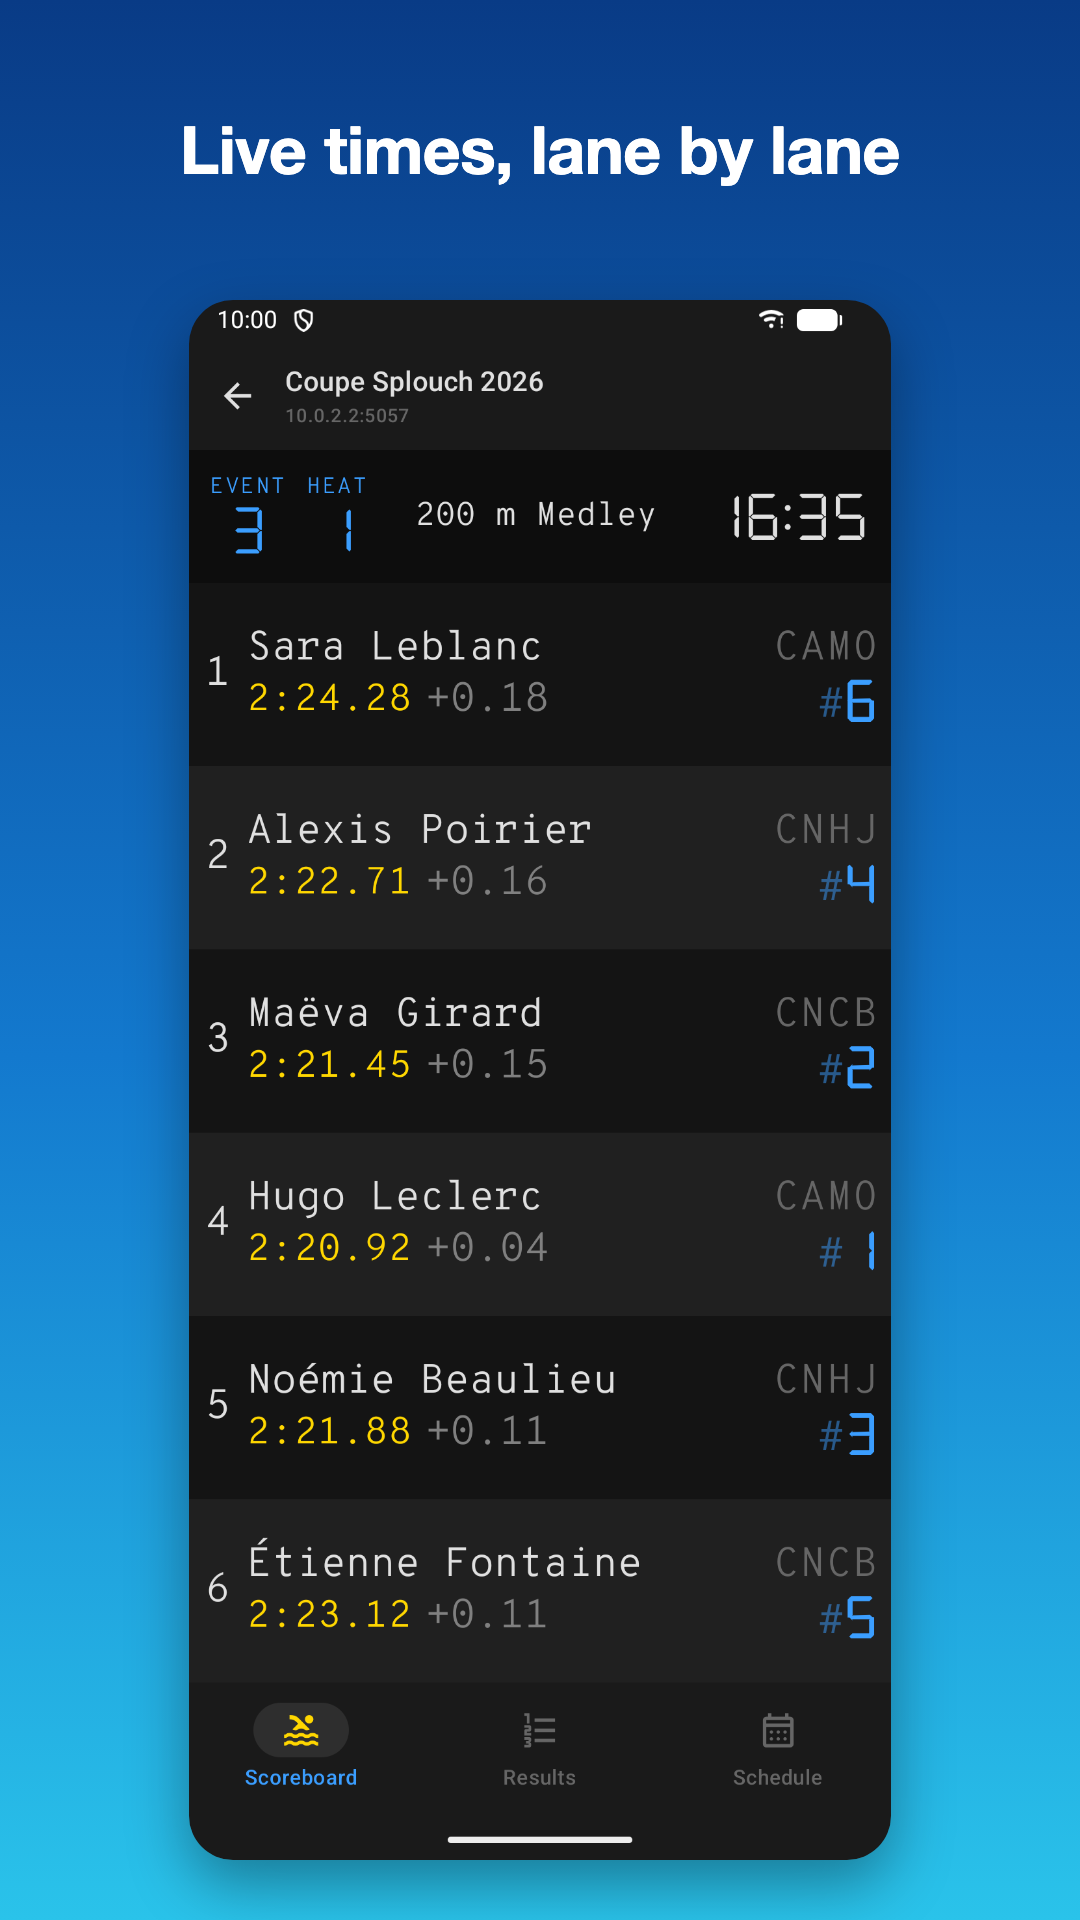
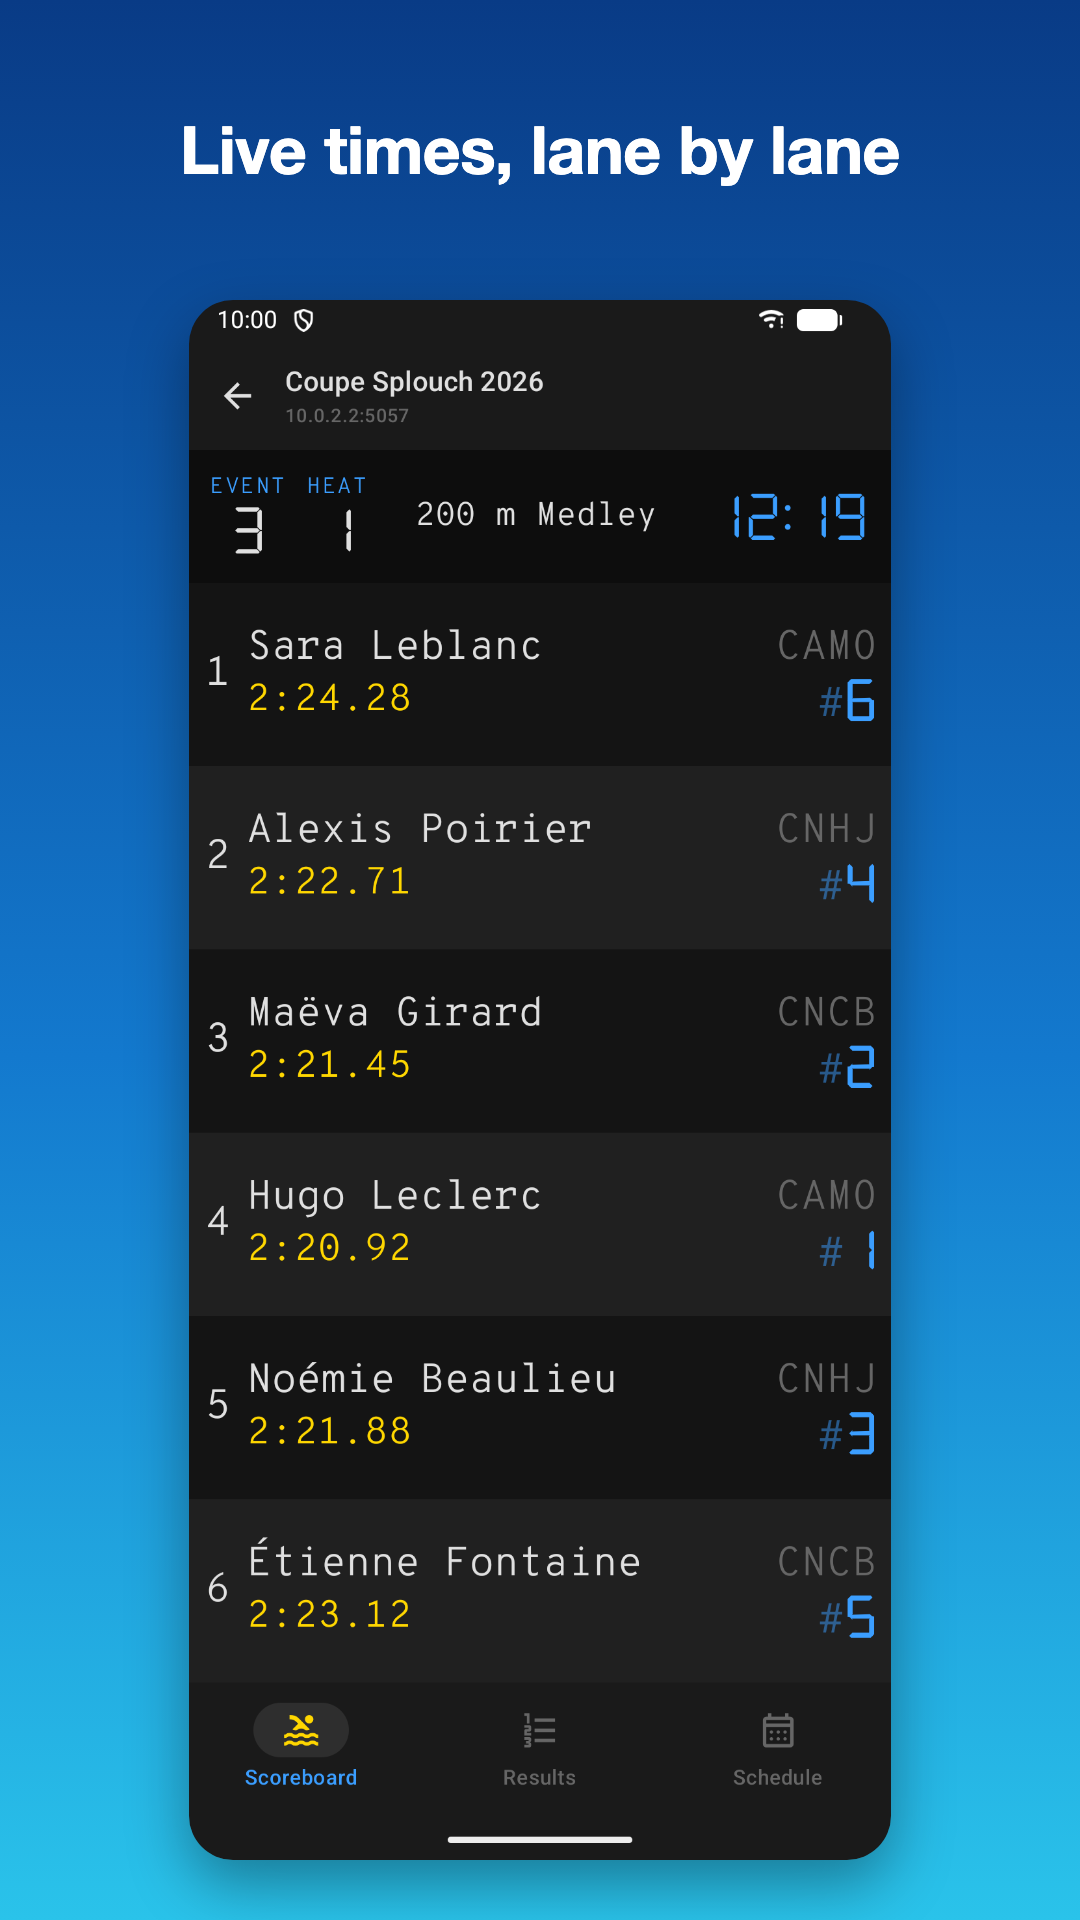
[Screenshots] Retaken after the schedule restyle, Play set re-rendered

diff --git a/Screenshots/README.md b/Screenshots/README.md
@@ -53,8 +53,9 @@ as it opens during heat 2.
    `console_recordings/200m_medley_2heats.serial` named `store-shots.serial`. The
    `.lxf` beside a recording is the meet it loads.
 3. Log in (`score`/`swimming`) and `POST /test_play {"name":"store-shots.serial"}`.
-   Heat 1 finishes about 150 s in and holds until heat 2 starts; the board wipes when
-   the recording ends.
+   Heat 1 finishes about 150 s in and holds until heat 2 starts, about 210 s in; the
+   board wipes when the recording ends. Shoot the schedule after heat 2 starts, or it
+   opens on heat 1.
 4. Language and appearance come from the app's own preferences, so a debug build's
    `shared_prefs/splouch.prefs.xml` is rewritten with `run-as` before each launch
    (`lang` `en`/`fr`, `appearance` `LIGHT`/`DARK`, `tab`, `server`), with
